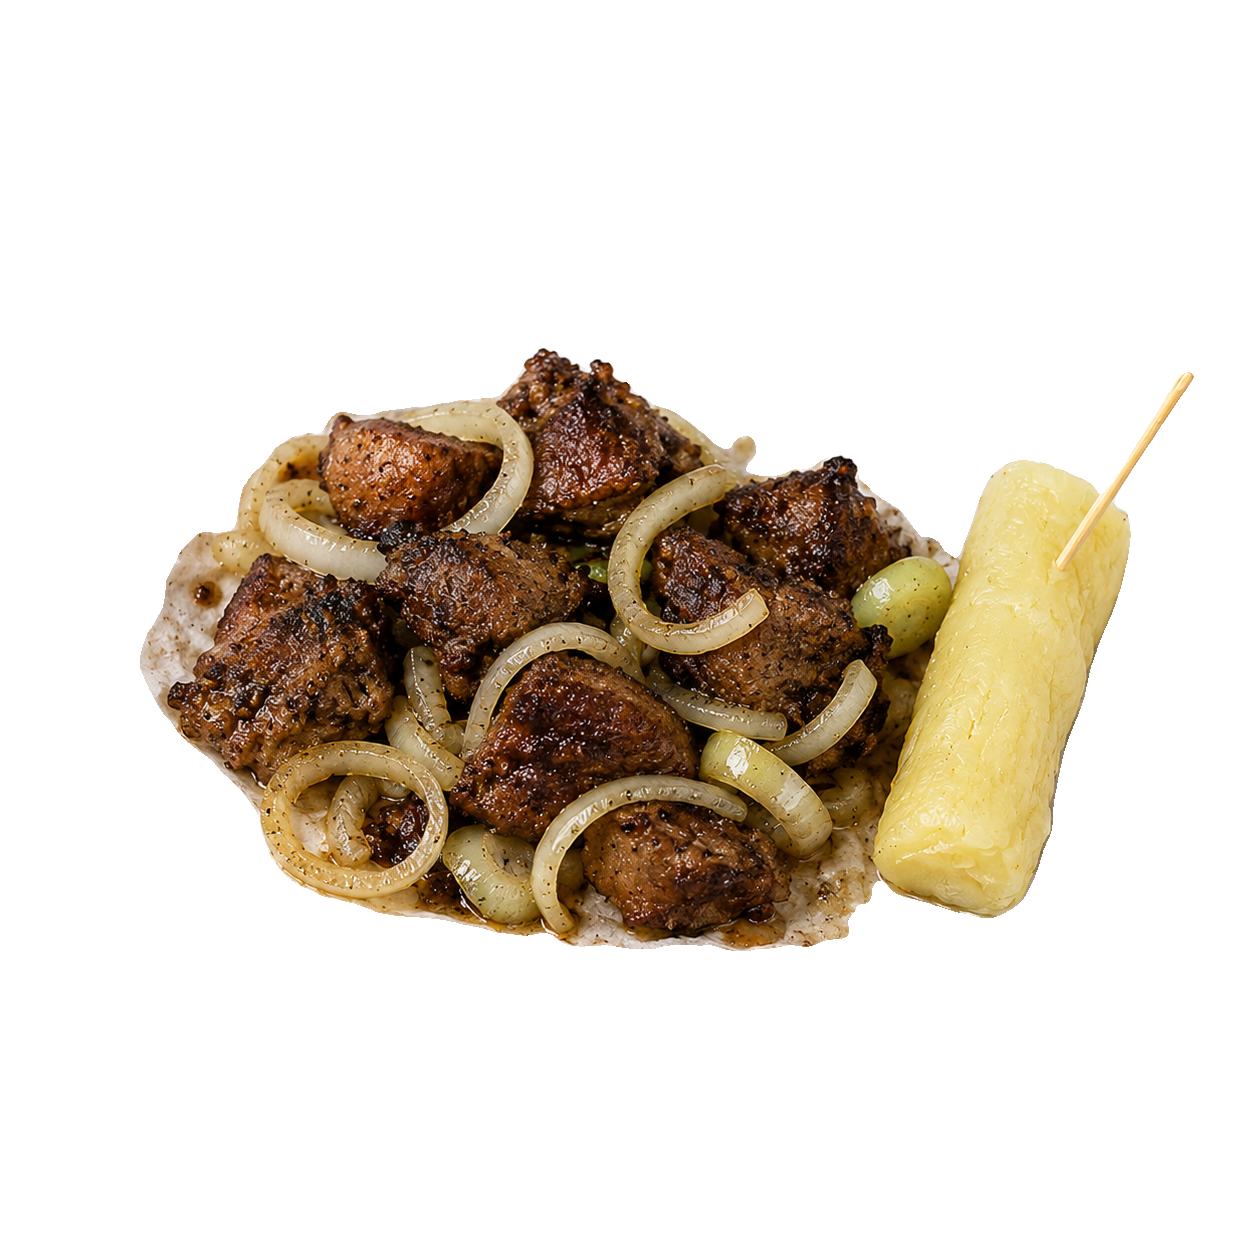
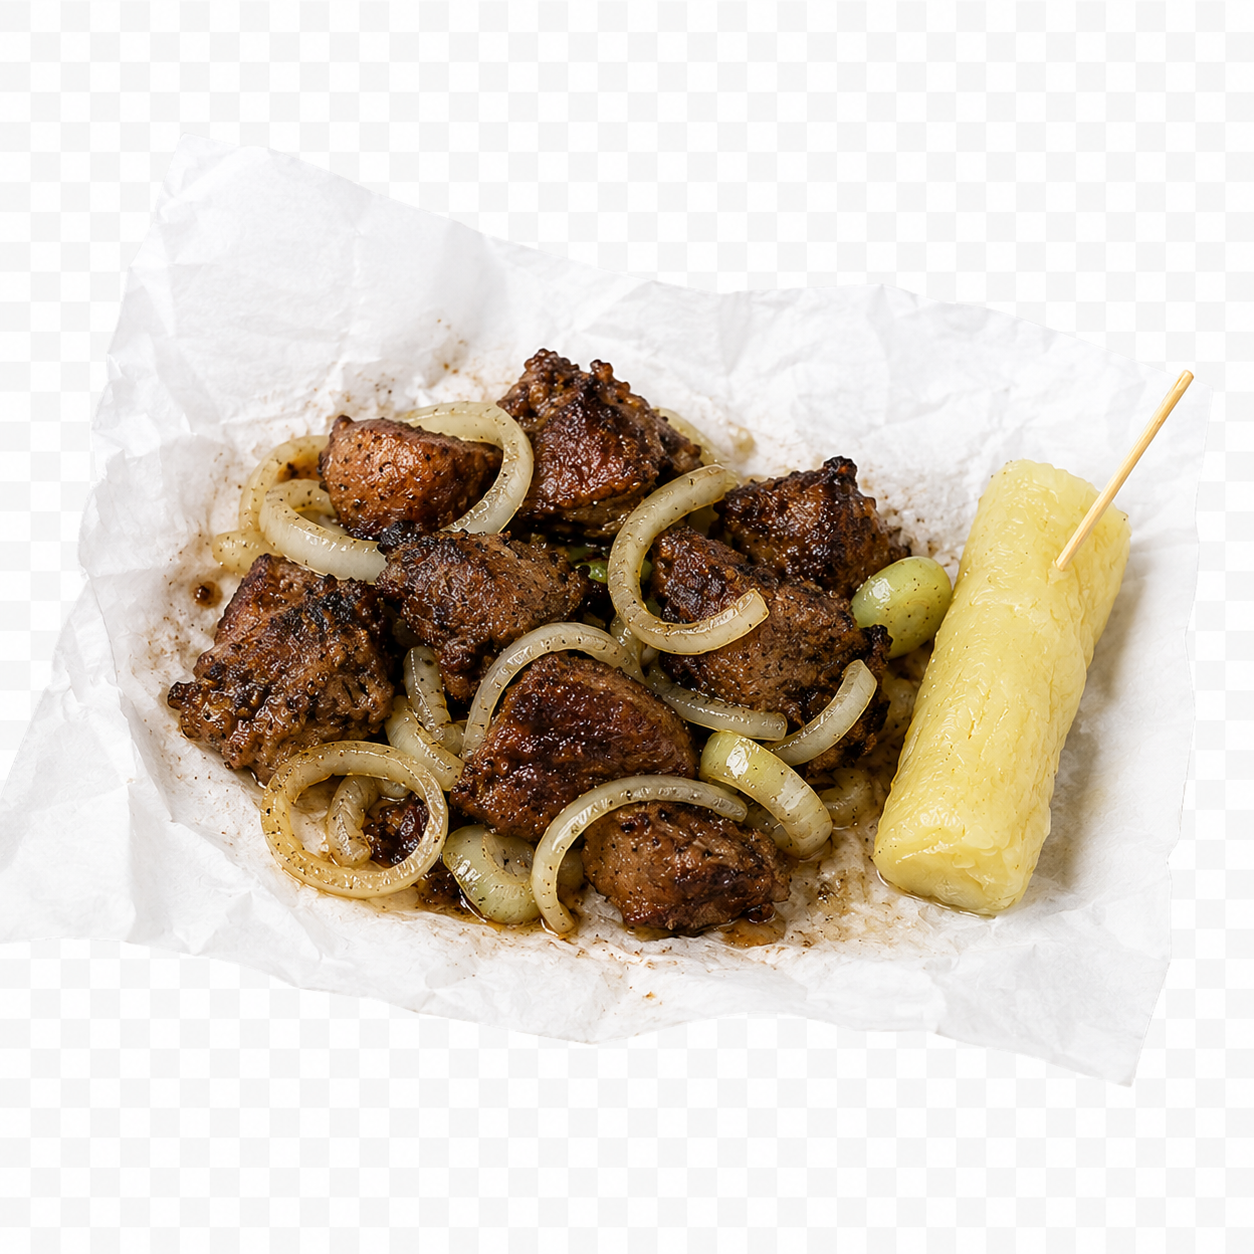
Bobs Ntaba: restore original food images; fix hero crop + hidden hero text
- Revert the rembg background removal — restore the user's original food
  images (cut-1/cut-2/paper) and the faded section-background plates
  (matchday, price-list + contact headers). Only the card CONTAINER was meant
  to change (box/border/gloss already removed); the images keep their sheet.
- Hero: stop oversizing for parallax (was cropping); object-cover inset-0.
- Hero text/buttons: drive entrance with gsap.from (visible by default) instead
  of inline opacity:0 — if GSAP doesn't run, text stays visible (no more blank
  hero / missing button text). Reduced-motion skips animation entirely.

diff --git a/src/app/bobs-ntaba/page.tsx b/src/app/bobs-ntaba/page.tsx
@@ -36,33 +36,30 @@ export default function BobsHome() {
       <section className="relative flex min-h-[88vh] items-end overflow-hidden">
         {/* eslint-disable-next-line @next/next/no-img-element */}
         <img
-          data-bn-parallax
           src={`${BASE}/hero-wide.png`}
           alt="Bobs Ntaba — the founder with fresh trays of grilled goat meat"
-          className="absolute -top-[6%] left-0 h-[112%] w-full object-cover object-center"
+          className="absolute inset-0 h-full w-full object-cover object-[center_30%]"
         />
         <div className="absolute inset-0 bg-gradient-to-t from-[#0c0b0a] via-[#0c0b0a]/40 to-[#0c0b0a]/30" />
         <div className="absolute inset-0 bg-gradient-to-r from-[#0c0b0a]/85 via-[#0c0b0a]/20 to-transparent" />
 
         <div className="relative mx-auto w-full max-w-[1200px] px-5 pb-16 pt-28 md:pb-24">
-          <p className={`${SCRIPT} bn-fade mb-1 text-3xl text-[#c99a3b] md:text-5xl`} style={{ opacity: 0 }}>
-            Bobs
-          </p>
+          <p className={`${SCRIPT} bn-fade mb-1 text-3xl text-[#c99a3b] md:text-5xl`}>Bobs</p>
           <h1 className={`${DISPLAY} max-w-4xl text-[15vw] text-[#f3efe6] sm:text-7xl md:text-8xl lg:text-9xl`}>
             <span className="block overflow-hidden pb-[0.05em]">
-              <span className="bn-hero-line block" style={{ transform: "translateY(110%)" }}>Bold flavour.</span>
+              <span className="bn-hero-line block">Bold flavour.</span>
             </span>
             <span className="block overflow-hidden pb-[0.05em]">
-              <span className="bn-hero-line block" style={{ transform: "translateY(110%)" }}>
+              <span className="bn-hero-line block">
                 Rooted <span className="text-[#c99a3b]">culture.</span>
               </span>
             </span>
           </h1>
-          <p className="bn-fade mt-6 max-w-xl text-base leading-relaxed text-[#f3efe6]/80 md:text-lg" style={{ opacity: 0 }}>
+          <p className="bn-fade mt-6 max-w-xl text-base leading-relaxed text-[#f3efe6]/80 md:text-lg">
             Slow-grilled goat meat — <span className="text-[#f3efe6]">Ntaba</span> — made fresh to order. Tossed with onions
             and scotch bonnet, served with a roast plantain stick. {SITE.area}.
           </p>
-          <div className="bn-fade mt-8 flex flex-wrap gap-3" style={{ opacity: 0 }}>
+          <div className="bn-fade mt-8 flex flex-wrap gap-3">
             <a
               href={`tel:${SITE.phone}`}
               className={`${COND} bg-[#c99a3b] px-7 py-3.5 text-base tracking-widest text-[#0c0b0a] transition-colors hover:bg-[#e2bb6b] md:text-lg`}
@@ -144,13 +141,13 @@ export default function BobsHome() {
           >
             {HIGHLIGHTS.map((item) => (
               <div key={item.name} className="flex w-[78%] shrink-0 snap-start flex-col sm:w-[60%] md:w-auto">
-                {/* Floating cutout — no box, border or gloss */}
-                <div className="relative aspect-square">
+                {/* No container box, border or gloss — image sits on the page */}
+                <div className="relative aspect-square overflow-hidden">
                   {/* eslint-disable-next-line @next/next/no-img-element */}
                   <img
                     src={item.img}
                     alt={item.name}
-                    className="absolute inset-0 h-full w-full object-contain p-2 drop-shadow-[0_24px_30px_rgba(0,0,0,0.5)]"
+                    className="absolute inset-0 h-full w-full object-cover"
                   />
                 </div>
                 <div className="pt-4">
@@ -167,19 +164,10 @@ export default function BobsHome() {
       </section>
 
       {/* MATCHDAY SPECIAL */}
-      <section className="relative overflow-hidden bg-[#16140f] py-20 md:py-28">
-        <div
-          className="absolute inset-0"
-          style={{ background: "radial-gradient(60% 80% at 80% 50%, rgba(201,154,59,0.14), transparent 70%)" }}
-        />
+      <section className="relative overflow-hidden py-20 md:py-28">
         {/* eslint-disable-next-line @next/next/no-img-element */}
-        <img
-          data-bn-parallax
-          src={`${BASE}/cut-2.png`}
-          alt=""
-          aria-hidden
-          className="pointer-events-none absolute right-[-5%] top-1/2 hidden w-[42%] max-w-lg -translate-y-1/2 object-contain opacity-95 drop-shadow-[0_24px_40px_rgba(0,0,0,0.6)] md:block"
-        />
+        <img src={`${BASE}/plate-dark.png`} alt="" className="absolute inset-0 h-full w-full object-cover opacity-30" />
+        <div className="absolute inset-0 bg-[#0c0b0a]/80" />
         <div className="relative mx-auto max-w-[1200px] px-5">
           <Reveal className="max-w-2xl">
             <div className="mb-5">

diff --git a/src/app/bobs-ntaba/BobsFX.tsx b/src/app/bobs-ntaba/BobsFX.tsx
@@ -4,24 +4,20 @@ import { useEffect } from "react";
 import { gsap } from "gsap";
 import { ScrollTrigger } from "gsap/ScrollTrigger";
 
-// GSAP animation layer for the Bobs Ntaba microsite. Driven by data-attributes
-// so the markup stays clean. Reduced-motion safe; cleans up via ctx.revert().
+// GSAP animation layer for the Bobs Ntaba microsite. Driven by data-attributes.
+// Uses gsap.from so content is VISIBLE by default — if GSAP never runs (error,
+// no-JS) nothing is hidden. Reduced-motion: skip animation entirely.
 // No ScrollTrigger pin:true (it crashes App Router soft-nav).
 export function BobsFX() {
   useEffect(() => {
     gsap.registerPlugin(ScrollTrigger);
     const reduce = window.matchMedia("(prefers-reduced-motion: reduce)").matches;
+    if (reduce) return;
 
     const ctx = gsap.context(() => {
-      if (reduce) {
-        gsap.set("[data-bn-reveal], .bn-hero-line, .bn-fade", { opacity: 1, y: 0, yPercent: 0, clearProps: "transform" });
-        return;
-      }
-
-      // Hero kinetic heading: lines start at inline translateY(110%) (GSAP parses
-      // this into a px `y`), inside an overflow-hidden mask; slide up to y:0.
-      gsap.to(".bn-hero-line", { y: 0, duration: 1, stagger: 0.09, ease: "power4.out", delay: 0.15 });
-      gsap.to(".bn-fade", { opacity: 1, y: 0, duration: 0.8, stagger: 0.1, ease: "power3.out", delay: 0.4 });
+      // Hero kinetic heading: lines slide up from inside an overflow-hidden mask.
+      gsap.from(".bn-hero-line", { yPercent: 110, duration: 1, stagger: 0.09, ease: "power4.out", delay: 0.15 });
+      gsap.from(".bn-fade", { opacity: 0, y: 16, duration: 0.8, stagger: 0.1, ease: "power3.out", delay: 0.4 });
 
       // Scroll reveals.
       gsap.utils.toArray<HTMLElement>("[data-bn-reveal]").forEach((node) => {
@@ -43,15 +39,6 @@ export function BobsFX() {
           stagger: 0.1,
           ease: "power3.out",
           scrollTrigger: { trigger: group, start: "top 85%", once: true },
-        });
-      });
-
-      // Subtle parallax on flagged images (scaled up so no edge gap appears).
-      gsap.utils.toArray<HTMLElement>("[data-bn-parallax]").forEach((img) => {
-        gsap.to(img, {
-          yPercent: 6,
-          ease: "none",
-          scrollTrigger: { trigger: img.parentElement, start: "top bottom", end: "bottom top", scrub: true },
         });
       });
     });

diff --git a/src/app/bobs-ntaba/contact/page.tsx b/src/app/bobs-ntaba/contact/page.tsx
@@ -20,16 +20,10 @@ const CONTACTS: { label: string; value: string; href: string; icon: IconName; ex
 export default function ContactPage() {
   return (
     <>
-      <section className="relative overflow-hidden bg-[#0c0b0a] pb-14 pt-28 md:pb-16 md:pt-36">
-        <div className="absolute inset-0" style={{ background: "radial-gradient(55% 80% at 85% 42%, rgba(201,154,59,0.13), transparent 70%)" }} />
+      <section className="relative overflow-hidden pb-14 pt-28 md:pb-16 md:pt-36">
         {/* eslint-disable-next-line @next/next/no-img-element */}
-        <img
-          data-bn-parallax
-          src={`${BASE}/paper.png`}
-          alt=""
-          aria-hidden
-          className="pointer-events-none absolute right-[-3%] top-1/2 hidden w-[34%] max-w-sm -translate-y-1/2 object-contain opacity-90 drop-shadow-[0_24px_40px_rgba(0,0,0,0.55)] lg:block"
-        />
+        <img src={`${BASE}/plate-4.png`} alt="" className="absolute inset-0 h-full w-full object-cover opacity-25" />
+        <div className="absolute inset-0 bg-gradient-to-b from-[#0c0b0a]/70 via-[#0c0b0a]/85 to-[#0c0b0a]" />
         <div className="relative mx-auto max-w-[1200px] px-5">
           <div className="mb-5">
             <Eyebrow>Get in touch</Eyebrow>

diff --git a/src/app/bobs-ntaba/prices/page.tsx b/src/app/bobs-ntaba/prices/page.tsx
@@ -12,16 +12,10 @@ export default function PricesPage() {
   return (
     <>
       {/* Page header */}
-      <section className="relative overflow-hidden bg-[#0c0b0a] pb-16 pt-28 md:pb-20 md:pt-36">
-        <div className="absolute inset-0" style={{ background: "radial-gradient(55% 80% at 85% 42%, rgba(201,154,59,0.13), transparent 70%)" }} />
+      <section className="relative overflow-hidden pb-16 pt-28 md:pb-20 md:pt-36">
         {/* eslint-disable-next-line @next/next/no-img-element */}
-        <img
-          data-bn-parallax
-          src={`${BASE}/cut-1.png`}
-          alt=""
-          aria-hidden
-          className="pointer-events-none absolute right-[-3%] top-1/2 hidden w-[34%] max-w-sm -translate-y-1/2 object-contain opacity-90 drop-shadow-[0_24px_40px_rgba(0,0,0,0.55)] lg:block"
-        />
+        <img src={`${BASE}/plate-2.png`} alt="" className="absolute inset-0 h-full w-full object-cover opacity-25" />
+        <div className="absolute inset-0 bg-gradient-to-b from-[#0c0b0a]/70 via-[#0c0b0a]/80 to-[#0c0b0a]" />
         <div className="relative mx-auto max-w-[1200px] px-5">
           <div className="mb-5">
             <Eyebrow>Home made to order</Eyebrow>